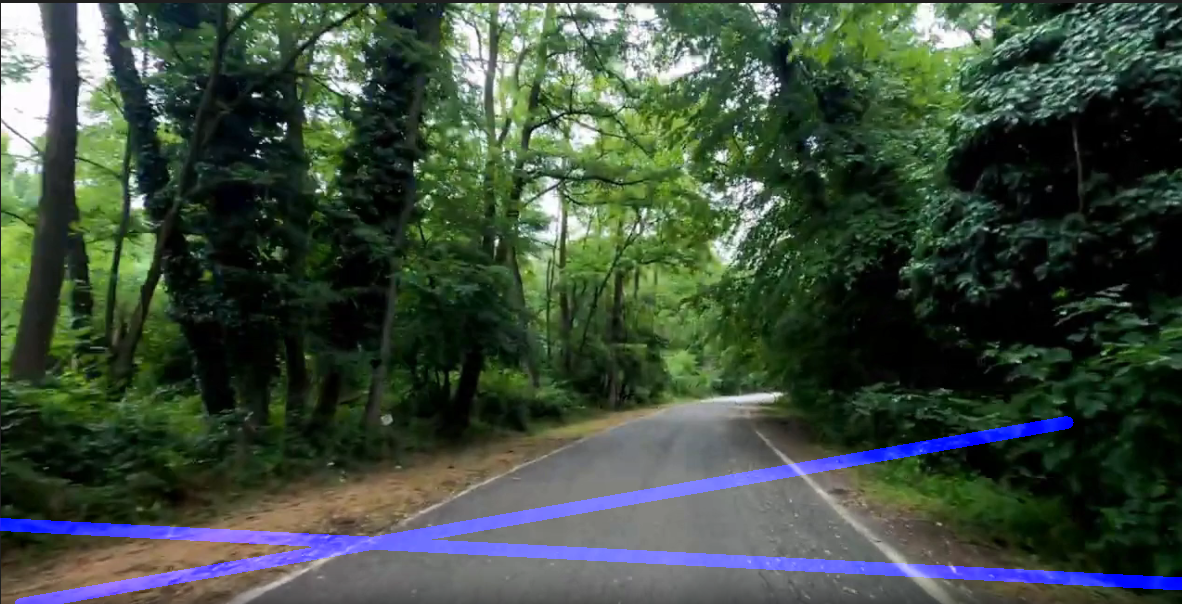
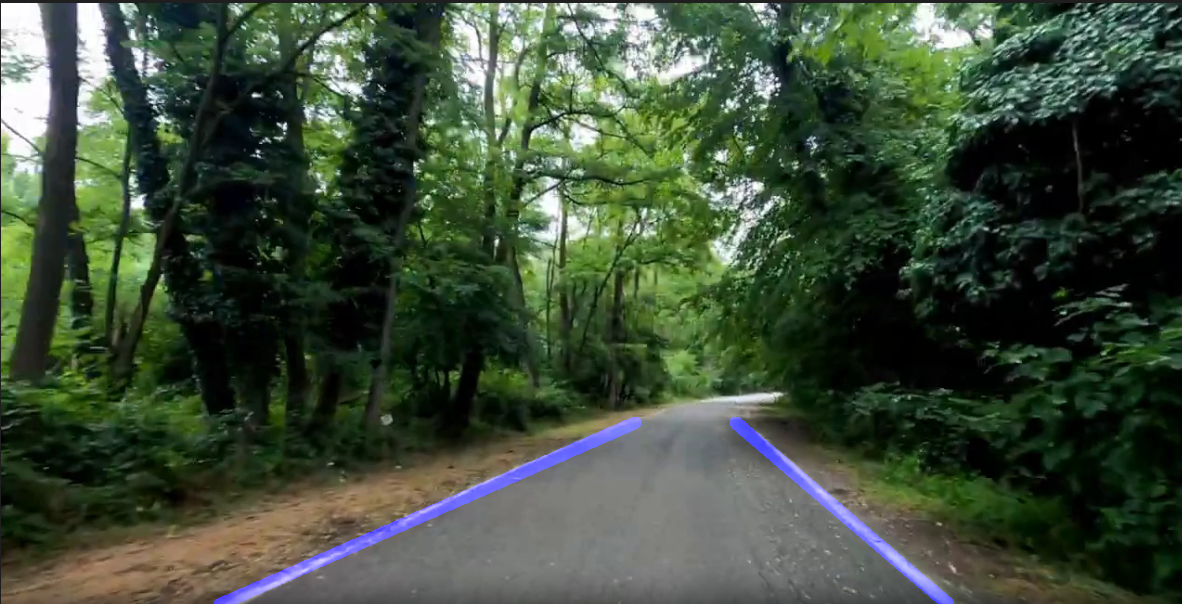
canny-edge update

Changed region(s): [[0.0, 0.6854, 1.0, 1.0]]

diff --git a/Waypoint_generation/Canny_edge.py b/Waypoint_generation/Canny_edge.py
@@ -50,9 +50,9 @@ else:
 
 rows, cols = canny.shape[:2]
 bottom_left  = [cols * 0.1, rows * 0.95]
-top_left     = [cols * 0.5, rows * 0.8]
+top_left     = [cols * 0.6, rows * 0.8]
 bottom_right = [cols * 0.9, rows * 0.95]
-top_right    = [cols * 0.5, rows * 0.8]
+top_right    = [cols * 0.6, rows * 0.8]
 vertices = np.array([[bottom_left, top_left, top_right, bottom_right]], dtype=np.int32)
 
 cv2.fillPoly(mask, vertices, ignore_mask_color)
@@ -63,7 +63,7 @@ rho = 1
     # Angle resolution of the accumulator in radians.
 theta = np.pi/180   
 # Only lines that are greater than threshold will be returned.
-threshold = 25      
+threshold = 20      
 # Line segments shorter than that are rejected.
 minLineLength = 20  
 # Maximum allowed gap between points on the same line to link them
